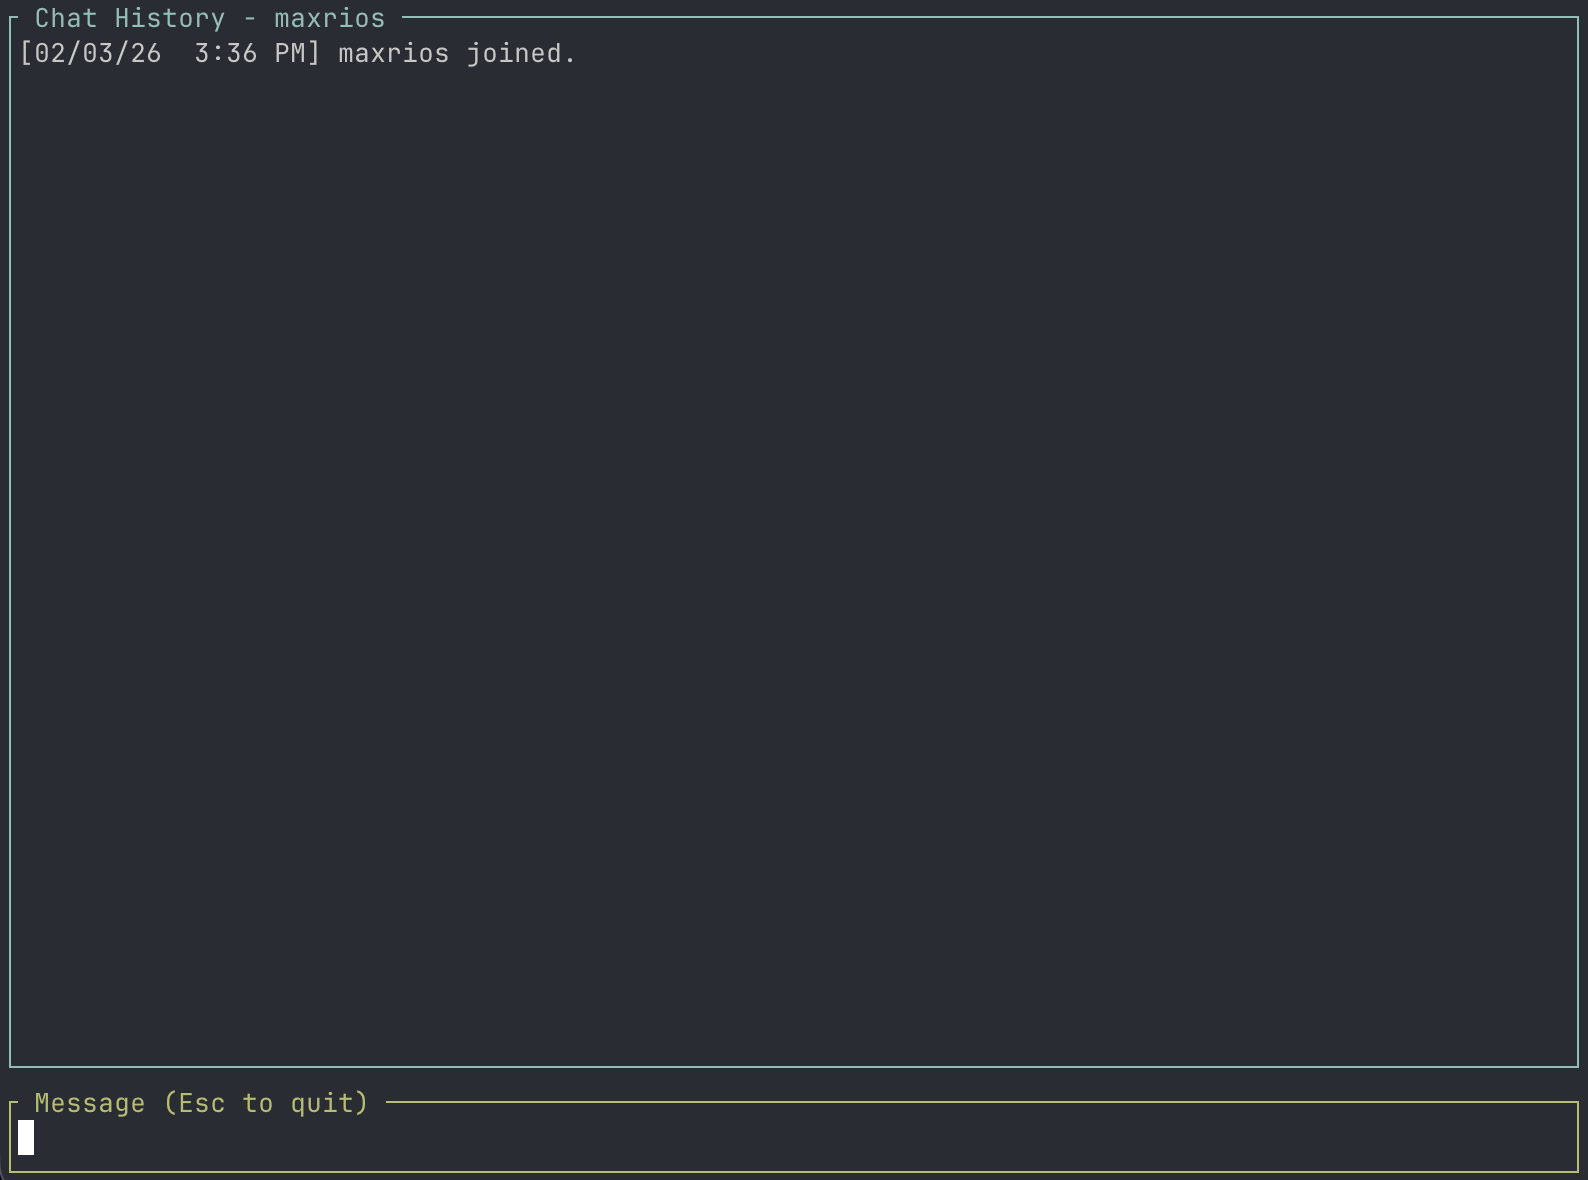
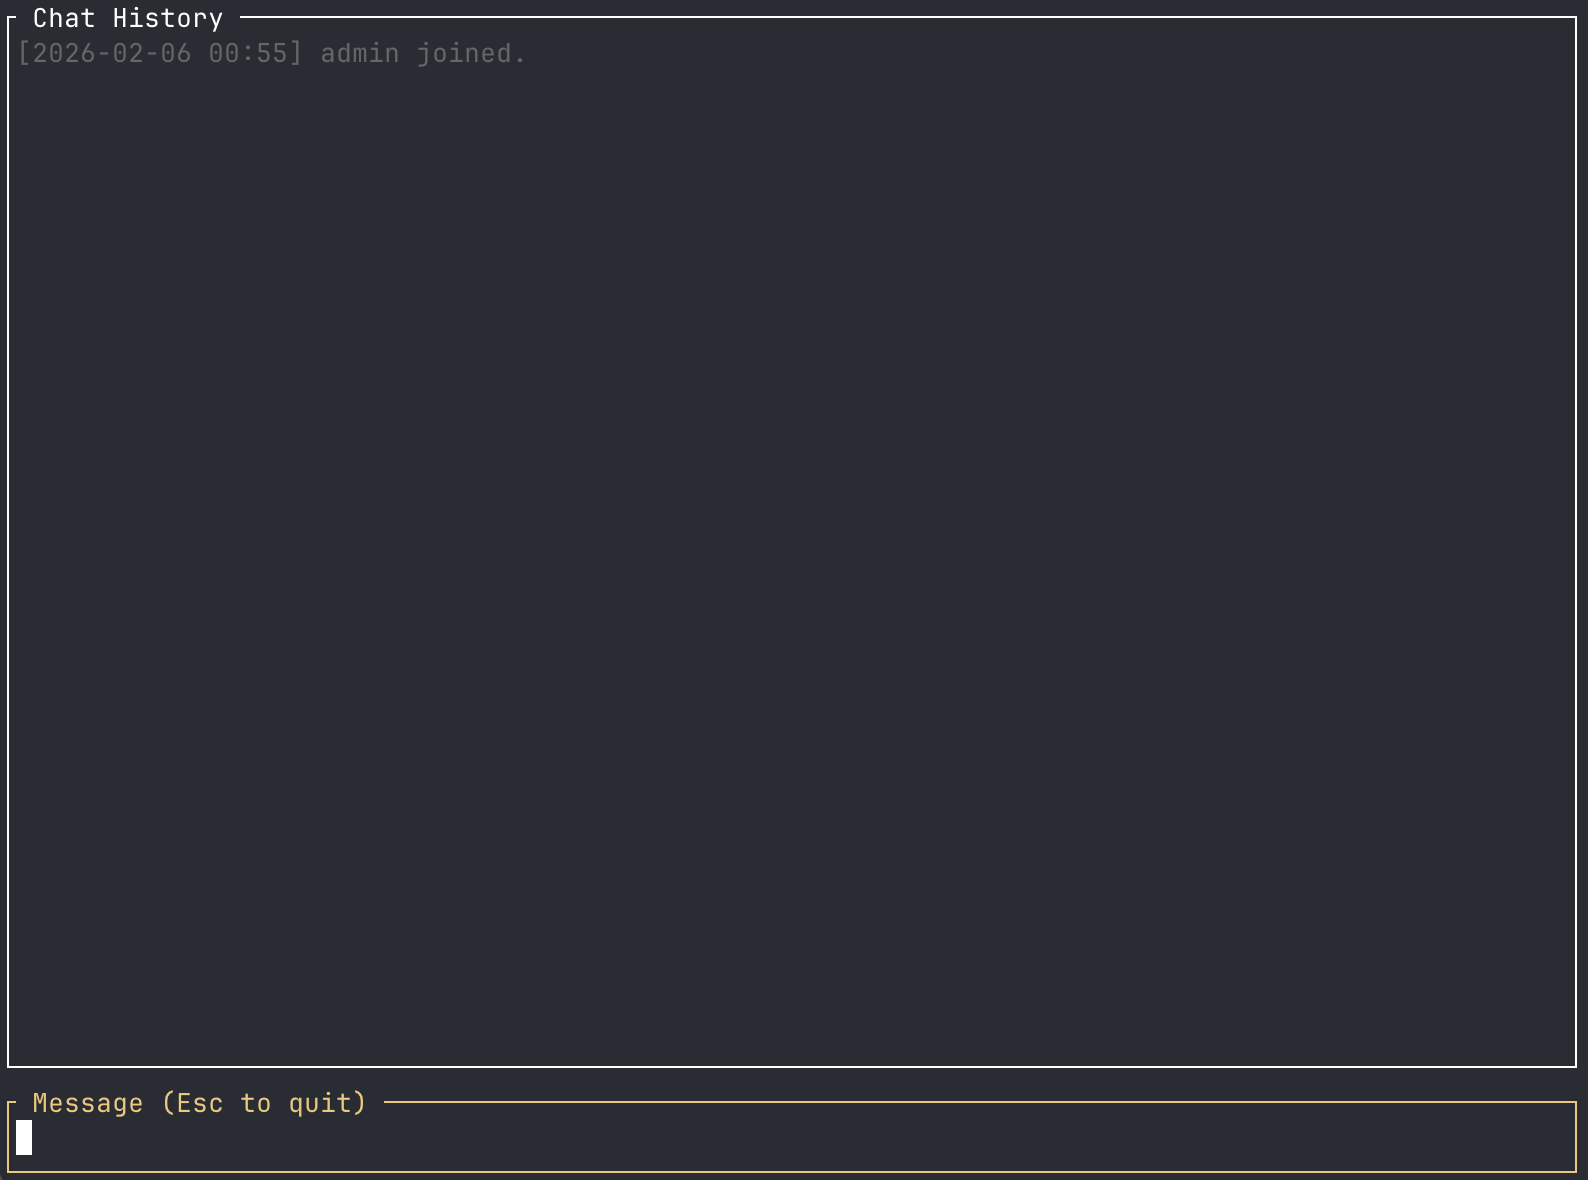
update example images and add extra wording to chat message input field

Changed region(s): [[0.9874, 0.0, 1.0, 1.0], [0.0, 0.0, 0.3703, 0.061], [0.0, 0.9153, 0.2469, 1.0]]

diff --git a/client/src/ui/screens/chat.rs b/client/src/ui/screens/chat.rs
@@ -26,7 +26,13 @@ pub fn draw(f: &mut Frame, app: &mut App) {
         &mut app.chat.history_request_timestamp,
     );
 
-    input::draw(f, chunks[1], "Message", &app.ui.input_buffer, true);
+    input::draw(
+        f,
+        chunks[1],
+        "Message (Esc to quit)",
+        &app.ui.input_buffer,
+        true,
+    );
     f.set_cursor_position((
         chunks[1].x + 1 + app.ui.input_buffer.len() as u16,
         chunks[1].y + 1,
